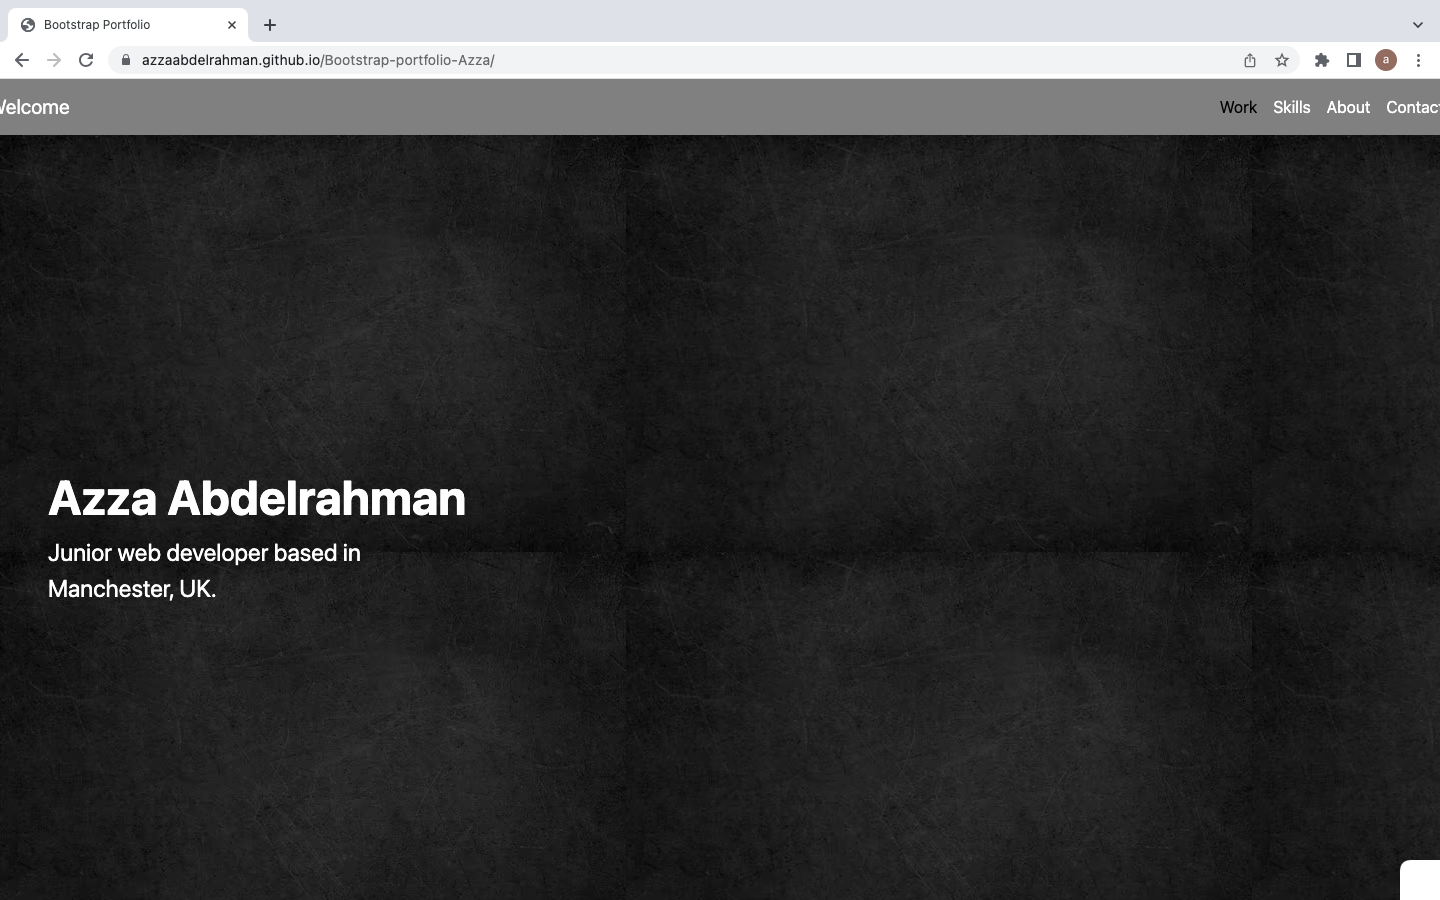
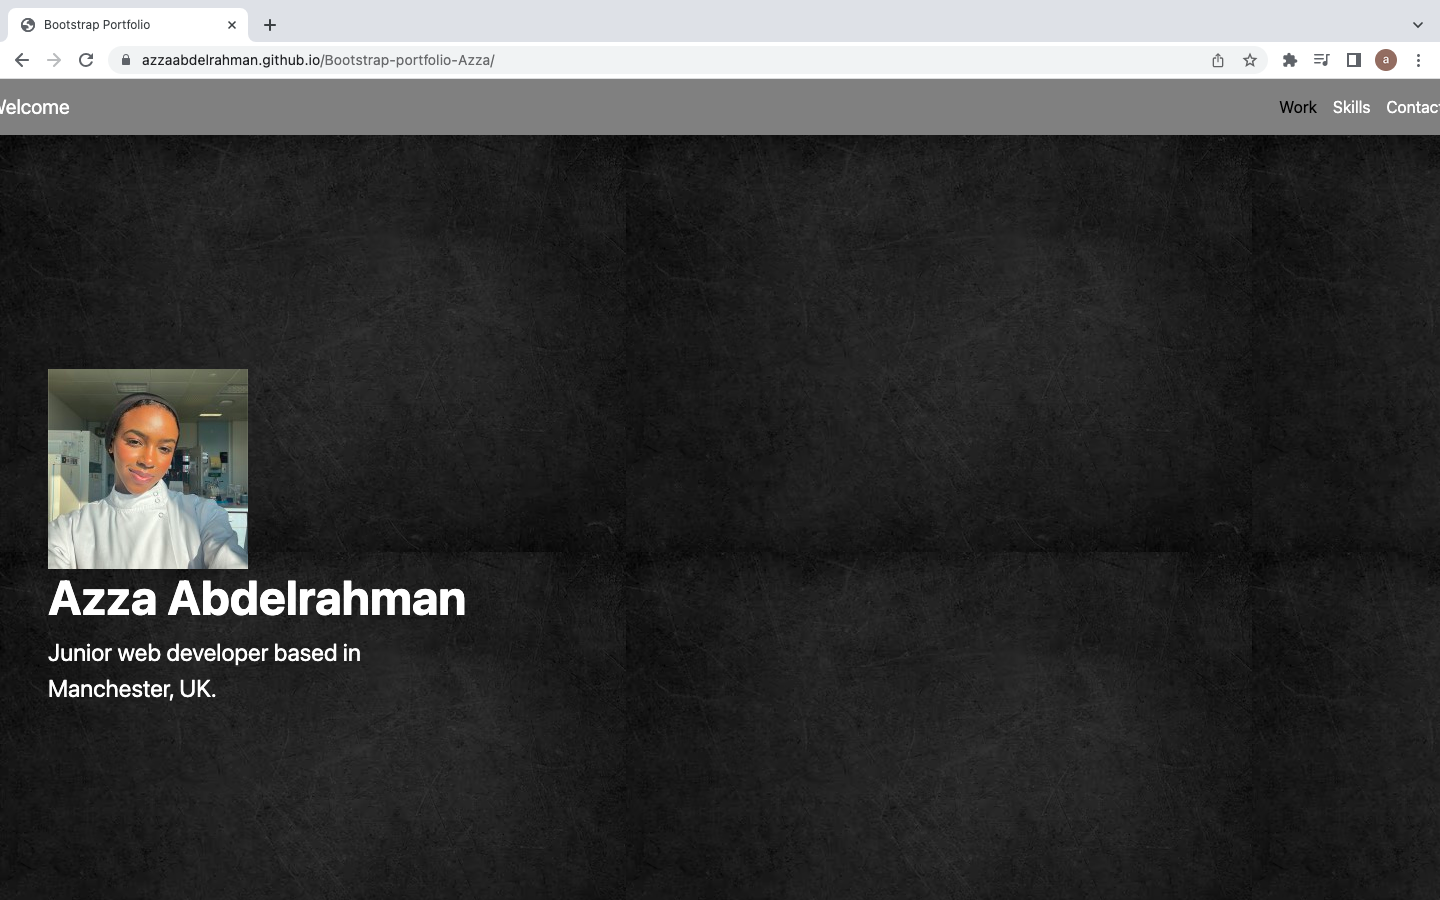
Footer

diff --git a/index.htm b/index.htm
@@ -27,9 +27,12 @@
               <li class="nav-item">
                 <a class="nav-link" href="#skills">Skills</a>
               </li>
-          
               <li class="nav-item">
-                <a class="nav-link" href="#">Contact</a>
+                <a class="nav-link" href="#AboutMe"> About Me</a>
+              </li>
+
+              <li class="nav-item">
+                <a class="nav-link" href="#contactme">Contact</a>
               </li>
             </ul>
           </div>
@@ -43,7 +46,8 @@
 
       <div class="p-5 mb-4 jumbo">
         <div class="container-fluid py-5 jumboCopy">
-          <img src="https://media.licdn.com/dms/image/D4E03AQFqv411H-3x7g/profile-displayphoto-shrink_200_200/0/1686781457955?e=1704931200&v=beta&t=3mX4sun1jmINdmhM6AVGPtKZ16BdpdPxH4HCo54X9aY">
+          <img
+            src="https://media.licdn.com/dms/image/D4E03AQFqv411H-3x7g/profile-displayphoto-shrink_200_200/0/1686781457955?e=1704931200&v=beta&t=3mX4sun1jmINdmhM6AVGPtKZ16BdpdPxH4HCo54X9aY">
           <h1 class="display-5 fw-bold" portfolio-title> Azza Abdelrahman</h1>
 
           <p class="col-md-12 fs-4"> Junior web developer based in
@@ -72,8 +76,10 @@
               </div>
               <div class="col-md-8">
                 <div class="card-body">
-                  <h5 class="card-title">Project 1</h5>
-                  <p class="card-text"> Project 1 will go here </p>
+                  <h5 class="card-title"> Bonfire night</h5>
+                  <p class="card-text"> A project where I created an advert web for Bonfire night events</p>
+                  <a class="btn btn-primary" href="https://azzaabdelrahman.github.io/Bonfire-Night-Adverts/"
+                    role="button"> Got to Project</a>
 
                 </div>
               </div>
@@ -87,8 +93,10 @@
               </div>
               <div class="col-md-8">
                 <div class="card-body">
-                  <h5 class="card-title">Project 2</h5>
-                  <p class="card-text">Project 2 will go here</p>
+                  <h5 class="card-title"> My first project</h5>
+                  <p class="card-text"> Here I created my first ever portfolio using HTML and CSS</p>
+                  <a class="btn btn-primary" href="https://azzaabdelrahman.github.io/My-portfolio/" role="button"> Got
+                    to Project</a>
 
                 </div>
               </div>
@@ -102,8 +110,11 @@
               </div>
               <div class="col-md-8">
                 <div class="card-body">
-                  <h5 class="card-title">Project 3</h5>
-                  <p class="card-text"> Project 3 will go here</p>
+                  <h5 class="card-title"> Horisean-Marketing-Agency</h5>
+                  <p class="card-text"> The HTML code is structured for readability, accessibility, and search engine
+                    optimization. </p>
+                  <a class="btn btn-primary" href="https://azzaabdelrahman.github.io/Horisean-Marketing-Agency/"
+                    role="button"> Got to Project</a>
 
                 </div>
               </div>
@@ -119,6 +130,7 @@
                 <div class="card-body">
                   <h5 class="card-title">Project 4</h5>
                   <p class="card-text">Project 4 will go here</p>
+                  <button type="submit" class="btn btn-primary">Go to project</button>
 
                 </div>
               </div>
@@ -228,18 +240,19 @@
 
 
 
-    </br>
-    <div class="row">
-      <div class="about-me-1">
-        <h3 id="contactme">Contact</h3>
+    <div class="row featurette">
+      <div class="col-md-7">
+        <h2 class="featurette-heading" id="AboutMe">About me </h2>
+        <p> Hello! my name is Azza Abdelrahman.I have recently graduated from a master's in Medical Microbiology. I love
+          my degree area, however in the last few months I have developed an interest in web developing and coding in
+          general.
+          I joined this Bootcamp to learn how to make websites and improve my knowledge further. The last few weeks of
+          learning have been very fun and enjoyable, I am looking forward to graduating and landing a job within this
+          field.</p>
       </div>
-      <div class="row-content">
-        <ul class="contact">
-          <li><a href="https://cdn4.iconfinder.com/data/icons/ionicons/512/icon-email-512.png"> </a></li>
-          <li><a href="Email"> azzabdel99@gmail.com</a></li>
-          <li><a href="https://github.com/AzzaAbdelrahman">Github </a></li>
-          <li><a href="https://www.linkedin.com/in/azza-abdelrahman-15652b197/">LinkedIn </a></li>
-        </ul>
+      <div class="col-md-5">
+        <img class="featurette-image img-fluid mx-auto" data-src="https://placehold.co/600x400" alt="600x400"
+          src="https://placehold.co/600x400" data-holder-rendered="true" style="width: 600px; height: 400px;">
       </div>
     </div>
 
@@ -250,9 +263,46 @@
 
 
 
+    </br>
+
+
+
+    <footer id="contactme" class="hover">
+
+      <a href="https://github.com/AzzaAbdelrahman" class="social"> <svg xmlns="http://www.w3.org/2000/svg" width="40"
+          height="40" fill="currentColor" class="bi bi-github" viewBox="0 0 16 16">
+          <path
+            d="M8 0C3.58 0 0 3.58 0 8c0 3.54 2.29 6.53 5.47 7.59.4.07.55-.17.55-.38 0-.19-.01-.82-.01-1.49-2.01.37-2.53-.49-2.69-.94-.09-.23-.48-.94-.82-1.13-.28-.15-.68-.52-.01-.53.63-.01 1.08.58 1.23.82.72 1.21 1.87.87 2.33.66.07-.52.28-.87.51-1.07-1.78-.2-3.64-.89-3.64-3.95 0-.87.31-1.59.82-2.15-.08-.2-.36-1.02.08-2.12 0 0 .67-.21 2.2.82.64-.18 1.32-.27 2-.27.68 0 1.36.09 2 .27 1.53-1.04 2.2-.82 2.2-.82.44 1.1.16 1.92.08 2.12.51.56.82 1.27.82 2.15 0 3.07-1.87 3.75-3.65 3.95.29.25.54.73.54 1.48 0 1.07-.01 1.93-.01 2.2 0 .21.15.46.55.38A8.012 8.012 0 0 0 16 8c0-4.42-3.58-8-8-8z" />
+        </svg> </a>
+      <a href="azzabdel99@gmail.com" class="social"><svg xmlns="http://www.w3.org/2000/svg" width="40" height="40"
+          fill="currentColor" class="bi bi-envelope" viewBox="0 0 16 16">
+          <path
+            d="M0 4a2 2 0 0 1 2-2h12a2 2 0 0 1 2 2v8a2 2 0 0 1-2 2H2a2 2 0 0 1-2-2V4Zm2-1a1 1 0 0 0-1 1v.217l7 4.2 7-4.2V4a1 1 0 0 0-1-1H2Zm13 2.383-4.708 2.825L15 11.105V5.383Zm-.034 6.876-5.64-3.471L8 9.583l-1.326-.795-5.64 3.47A1 1 0 0 0 2 13h12a1 1 0 0 0 .966-.741ZM1 11.105l4.708-2.897L1 5.383v5.722Z" />
+        </svg></a>
+      <a href="https://www.linkedin.com/in/azza-abdelrahman-15652b197/" class="social"> <svg xmlns="http://www.w3.org/2000/svg" width="40" height="40" fill="currentColor" class="bi bi-linkedin" viewBox="0 0 16 16">
+        <path d="M0 1.146C0 .513.526 0 1.175 0h13.65C15.474 0 16 .513 16 1.146v13.708c0 .633-.526 1.146-1.175 1.146H1.175C.526 16 0 15.487 0 14.854V1.146zm4.943 12.248V6.169H2.542v7.225h2.401zm-1.2-8.212c.837 0 1.358-.554 1.358-1.248-.015-.709-.52-1.248-1.342-1.248-.822 0-1.359.54-1.359 1.248 0 .694.521 1.248 1.327 1.248h.016zm4.908 8.212V9.359c0-.216.016-.432.08-.586.173-.431.568-.878 1.232-.878.869 0 1.216.662 1.216 1.634v3.865h2.401V9.25c0-2.22-1.184-3.252-2.764-3.252-1.274 0-1.845.7-2.165 1.193v.025h-.016a5.54 5.54 0 0 1 .016-.025V6.169h-2.4c.03.678 0 7.225 0 7.225h2.4z"/>
+      </svg></a>
+
+
+
+
+    </footer>
+
+
+
+
+
+
+
 
 
     </br>
+
+
+
+
+
+
 
 
 

diff --git a/style.css b/style.css
@@ -62,3 +62,13 @@
     align-items: center;
     justify-content: center;
 }
+
+.social{
+    display: flex;
+    flex-direction: row;
+    justify-content: center;
+    align-content: center;
+    box-shadow: 30px solid black;
+}
+
+
